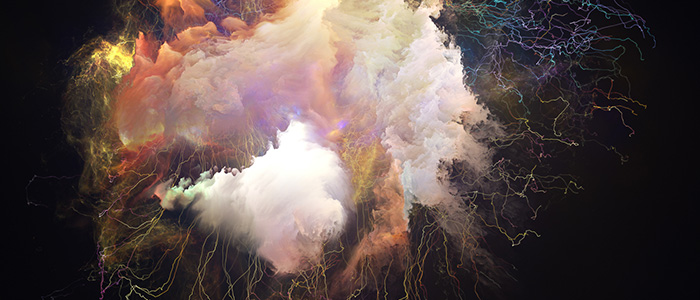
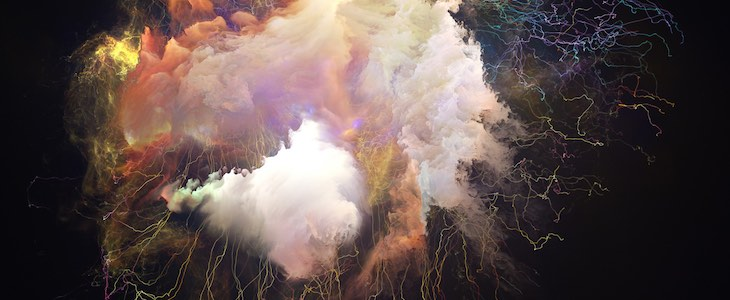
Some fixes in the wikidata post, better .gitignore and fixed a thumbnail that had the wrong size.

diff --git a/_posts/2015-06-23-wikidata-akka-streams.md b/_posts/2015-06-23-wikidata-akka-streams.md
@@ -9,7 +9,7 @@ categories: engineering
 author: Albert Pastrana
 ---
 
-Here at Intent HQ we use Wikipedia and Wikidata as one of our sources of data. It is very important because bla bla bla.
+Here at Intent HQ we use Wikipedia and Wikidata as one of our sources of data. It is very important because they both encode an enormous amount of information in several languages that we use to build our [Topic Graph](https://www.intenthq.com/the-topic-graph/).
 
 Although the current process we have to process these dumps works well enough, we are always interested in finding new and better ways of doing our work. It's because of that that we were very excited when we saw the Reactive Streams initiative [^1]. We thought it could be used to process the largest encyclopaedia in the world [^2].
 
@@ -25,11 +25,9 @@ The PoC was based on this requierement:
 
 Let's see what we did...
 
-You can think of Akka Streams as a graph, our execution graph for this PoC was simple enough, it can be seen below:
+You can think of Akka Streams as a graph. Our execution graph for this PoC was simple enough, it can be seen below:
 
     dump-file -> parse-json -> extract-site-links -> print-progress
-
-But you can build much more complex processes using Akka Streams, it can be extended using broadcast or bla bla bla. (potser al final?)
 
 ### Creating the data source
 
@@ -40,7 +38,7 @@ If we want to create a stream, the first thing we will need is a Source[^5]:
 
 In our case, this is the json wikidata dump[^6] which comes in a single gzip compressed file as a (huge) JSON array. Luckyly for us, each object is on a separate line in the file, so it can be easily read line by line and and processed independently.
 
-This is an extract on how the dump looks like:
+This is an extract showing what the dump looks like:
 {% highlight json %}
 [
 {"id":"Q1","type":"item", "aliases": ... },
@@ -86,7 +84,7 @@ Where `parseItem` is a function that parses a single line of the input file (an 
 
 It's important to note that this function won't be able to generate a `WikidataElement` for all the items in the input (some of them, for example, don't have any sitelink, so we are not interested in them), so the relationship between the output and the transformation is not 1:1.
 
-That can be easily solved by returning an `Option[WikidataElement` and by flattening the result. In Akka streams, there is no `flatMap` but you can use `mapConcat` instead -note that it works only on `immutable.Seq[T]`-.
+That can be easily solved by returning an `Option[WikidataElement` and by flattening the result. In Akka Streams, there is no `flatMap` but you can use `mapConcat` instead (note that it works only on `immutable.Seq[T]`).
 
 {% highlight scala %}
 def parseItem(langs: Seq[String], line: String): Option[WikidataElement] = ???
@@ -107,7 +105,7 @@ In the scenario we are considering for this simple PoC, we don't want to do anyt
 
 > A `Sink` is a set of stream processing steps that has one open input and an attached output. Can be used as a `Subscriber`
 
-There are several ways of creating a `Sink`, for our purpose, we will fold over the stream to accumulate a counter that we will use to log a message every N elements. A possible implementation would be the following one:
+There are several ways of creating a `Sink`. For our purpose, we will fold over the stream to accumulate a counter that we will use to log a message every N elements. A possible implementation would be the following one:
 
 {% highlight scala %}
 def logEveryNSink[T](n: Int) = Sink.fold(0) { (x, y: T) =>
@@ -117,7 +115,7 @@ def logEveryNSink[T](n: Int) = Sink.fold(0) { (x, y: T) =>
 }
 {% endhighlight %}
 
-Putting all together, we have a single liner that creates a source, transforms it by parsing the JSON and logs a message every 10K items:
+Putting all together, we have a one-liner that creates a source, transforms it by parsing the JSON and logs a message every 10K items:
 
 {% highlight scala %}
 source(config.input).via(parseJson(config.languages)).to(logEveryNSink(10000)).run()
@@ -125,13 +123,13 @@ source(config.input).via(parseJson(config.languages)).to(logEveryNSink(10000)).r
 
 You must be thinking now: "that's ok, but I can't see why you need that *** framework to parse and process a file".
 
-Well, you are right. We could try to argue that Akka streams is this or that. But let's be honest, we haven't done anything (yet) that will change our lifes. We will take this simple example and will add some cool stuff, it may not change your lifes but it may make them easier at some point.
+Well, you are right. We could try to argue that Akka Streams is this or that. But let's be honest, we haven't done anything (yet) that will change our lives. We will take this simple example and will add some cool stuff: it may not change your lives but it may make them easier at some point.
 
 [![commit in github](/assets/images/commit.png)](https://github.com/intenthq/wikidata-akka-streams/commit/d0e32be48427962d5d8f19c7b3db0d43c868ba73)
 
 ### Paralellise all the things!
 
-Yep, we know, your CPU has N cores and you like all of them to be as busy as possible. Given that the process can be easilly parallelised, we only need to find how Akka streams allow us do it. There are a couple of methods in the `Flow` class that can help us:
+Yep, we know, your CPU has N cores and you like all of them to be as busy as possible. Given that the process can be easilly parallelised, we only need to find how Akka Streams allow us do it. There are a couple of methods in the `Flow` class that can help us:
 
 {% highlight scala %}
   /**
@@ -178,7 +176,7 @@ def parseJson(langs: Seq[String])(implicit ec: ExecutionContext): Flow[String, W
 
 Imagine now that besides logging every N items, we want another process to take each WikidataElement and tell us if the title (site link) is the same in all the specified languages. After that, we want to aggregate the results and output just the percentages.
 
-One easy way of doing this is to create a `Sink` that does the processing and feeds both this new sink and the previous one (logging) with the stream of wikidata elements. Akka streams provides us with some very handy DSL to do it.
+One easy way of doing this is to create a `Sink` that does the processing and feeds both this new sink and the previous one (logging) with the stream of wikidata elements. Akka Streams provides us with some very handy DSL to do it.
 
     dump-file -> parse-json -> extract-site-links -> print-progress
                                                   -> check-same-titles -> count
@@ -203,7 +201,7 @@ def count: Sink[Boolean, Future[(Int, Int)]] = Sink.fold((0,0)) {
 
 #### Putting it all together
 
-Now, in order to do be able to have two flows processing the same stream, we will need to use what Akka streams calls Graphs[^9]:
+Now, in order to do be able to have two flows processing the same stream, we will need to use what Akka Streams calls Graphs[^9]:
 
 > Graphs are needed whenever you want to perform any kind of fan-in ("multiple inputs") or fan-out ("multiple outputs") operations. Considering linear Flows to be like roads, we can picture graph operations as junctions: multiple flows being connected at a single point.
 
@@ -226,7 +224,7 @@ val graph = FlowGraph.closed(count) { implicit b =>
 [![commit in github](/assets/images/commit.png)](https://github.com/intenthq/wikidata-akka-streams/commit/9d0a00564b95abbf31580d0c28b7ac89b8fd16b9)
 
 #### Results
-We executed some tests comparing English, German and Catalan Wikipedia links (aka sitelinks). The execution took in between 362 and 410 seconds in a MacBook Pro 2.3 GHz Intel Core i7 (don't take that as a benchmark, we didn't). The results, in case you are interested are the following: 44.87% of the entries in the English Wikipedia share the same title with the German one while this figure is only 35.05% when we compare it with the Catalan Wikipedia.
+We executed some tests comparing English, German and Catalan Wikipedia links (aka sitelinks). The execution took in between 362 and 410 seconds on a MacBook Pro 2.3 GHz Intel Core i7 (don't take that as a benchmark, we didn't). The results, in case you are interested are the following: 44.87% of the entries in the English Wikipedia share the same title with the German one while this figure is only 35.05% when we compare it with the Catalan Wikipedia.
 
 Complete output below:
 
@@ -247,7 +245,7 @@ Complete output below:
 
 ### Conclusion
 
-First of all, we had some good fun playing with Akka streams, it's a fairly easy to use framework, well documented enough and with a mild learning curve. We will for sure consider using it in the future!
+First of all, we had some good fun playing with Akka Streams. It's a fairly easy to use framework, well documented enough and with a mild learning curve. We will for sure consider using it in the future!
 
 Now, it's your turn, try it for yourself -you can find a repo with the code of the PoC in our <a href="https://github.com/intenthq/wikidata-akka-streams/" target="_blank">github</a>- and let us know your thoughts.
 
@@ -255,8 +253,8 @@ Now, it's your turn, try it for yourself -you can find a repo with the code of t
 [^2]: <a href="http://en.wikipedia.org/wiki/Wikipedia:Size_comparisons" target="_blank">Wikipedia: Size comparisons</a>
 [^3]: <a href="http://en.wikipedia.org/wiki/Wikipedia:Size_of_Wikipedia" target="_blank">Wikipedia: Size of Wikipedia</a>
 [^4]: <a href="https://news.ycombinator.com/item?id=9581862" target="_blank">Hacker news discussion: Your data fits in RAM</a>
-[^5]: <a href="https://github.com/akka/akka/blob/release-2.3-dev/akka-stream/src/main/scala/akka/stream/scaladsl/Source.scala#L38" target="_blank">Akka streams: Source.scala</a>
+[^5]: <a href="https://github.com/akka/akka/blob/release-2.3-dev/akka-stream/src/main/scala/akka/stream/scaladsl/Source.scala#L38" target="_blank">Akka Streams: Source.scala</a>
 [^6]: <a href="https://www.wikidata.org/wiki/Wikidata:Database_download#JSON_dumps_.28recommended.29" target="_blank">Wikidata: Database download. JSON dumps</a>
-[^7]: <a href="http://doc.akka.io/docs/akka-stream-and-http-experimental/1.0-RC3/scala/stream-flows-and-basics.html" target="_blank">Akka streams: Basics and working with Flows</a>
+[^7]: <a href="http://doc.akka.io/docs/akka-stream-and-http-experimental/1.0-RC3/scala/stream-flows-and-basics.html" target="_blank">Akka Streams: Basics and working with Flows</a>
 [^8]: <a href="https://github.com/akka/akka/blob/release-2.3-dev/akka-stream/src/main/scala/akka/stream/scaladsl/Sink.scala#L24" target="_blank">Akka streams: Sink.scala</a>
-[^9]: <a href="http://doc.akka.io/docs/akka-stream-and-http-experimental/1.0-RC3/scala/stream-graphs.html" target="_blank">Akka streams: Working with Graphs</a>
+[^9]: <a href="http://doc.akka.io/docs/akka-stream-and-http-experimental/1.0-RC3/scala/stream-graphs.html" target="_blank">Akka Streams: Working with Graphs</a>
